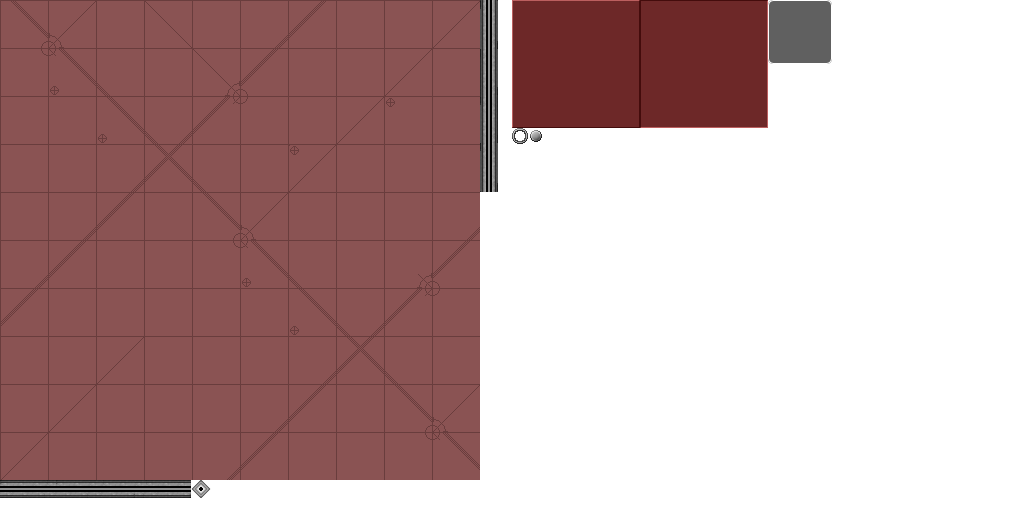
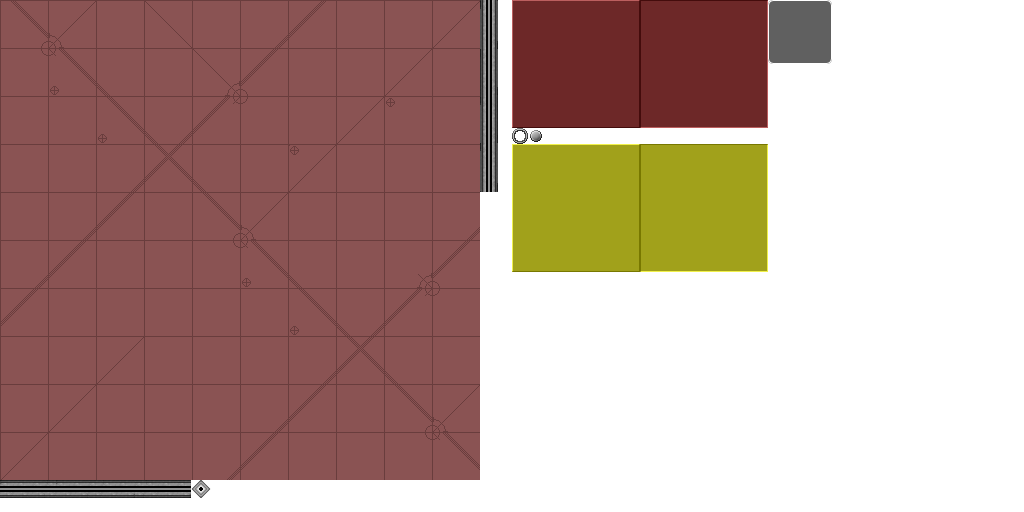
Add button highlighting/glow effect, to be used for the objective button when the objectives update

Changed region(s): [[0.5, 0.2812, 0.75, 0.5312]]

diff --git a/OpenRA.Game/Widgets/ButtonWidget.cs b/OpenRA.Game/Widgets/ButtonWidget.cs
@@ -23,8 +23,10 @@ namespace OpenRA.Widgets
 		public int VisualHeight = ChromeMetrics.Get<int>("ButtonDepth");
 		public string Font = ChromeMetrics.Get<string>("ButtonFont");
 		public bool Disabled = false;
+		public bool Highlighted = false;
 		public Func<string> GetText;
 		public Func<bool> IsDisabled;
+		public Func<bool> IsHighlighted;
 		public Action<MouseInput> OnMouseDown = _ => {};
 		public Action<MouseInput> OnMouseUp = _ => {};
 
@@ -39,6 +41,7 @@ namespace OpenRA.Widgets
 			OnMouseUp = _ => OnClick();
 			OnKeyPress = _ => OnClick();
 			IsDisabled = () => Disabled;
+			IsHighlighted = () => Highlighted;
 		}
 
 		protected ButtonWidget(ButtonWidget widget)
@@ -52,6 +55,8 @@ namespace OpenRA.Widgets
 			OnMouseDown = widget.OnMouseDown;
 			Disabled = widget.Disabled;
 			IsDisabled = widget.IsDisabled;
+			Highlighted = widget.Highlighted;
+			IsHighlighted = widget.IsHighlighted;
 
 			OnMouseUp = mi => OnClick();
 			OnKeyPress = _ => OnClick();
@@ -124,13 +129,14 @@ namespace OpenRA.Widgets
 		{
 			var rb = RenderBounds;
 			var disabled = IsDisabled();
+			var highlighted = IsHighlighted();
 
 			var font = Game.Renderer.Fonts[Font];
 			var text = GetText();
 			var s = font.Measure(text);
 			var stateOffset = (Depressed) ? new int2(VisualHeight, VisualHeight) : new int2(0, 0);
 
-			DrawBackground(rb, disabled, Depressed, Ui.MouseOverWidget == this);
+			DrawBackground(rb, disabled, Depressed, Ui.MouseOverWidget == this, highlighted);
 			font.DrawText(text, new int2(rb.X + (UsableWidth - s.X)/ 2, rb.Y + (Bounds.Height - s.Y) / 2) + stateOffset,
 						  disabled ? Color.Gray : Color.White);
 		}
@@ -138,17 +144,19 @@ namespace OpenRA.Widgets
 		public override Widget Clone() { return new ButtonWidget(this); }
 		public virtual int UsableWidth { get { return Bounds.Width; } }
 
-		public virtual void DrawBackground(Rectangle rect, bool disabled, bool pressed, bool hover)
+		public virtual void DrawBackground(Rectangle rect, bool disabled, bool pressed, bool hover, bool highlighted)
 		{
-			ButtonWidget.DrawBackground("button", rect, disabled, pressed, hover);
+			ButtonWidget.DrawBackground("button", rect, disabled, pressed, hover, highlighted);
 		}
 
-		public static void DrawBackground(string baseName, Rectangle rect, bool disabled, bool pressed, bool hover)
+		public static void DrawBackground(string baseName, Rectangle rect, bool disabled, bool pressed, bool hover, bool highlighted)
 		{
 			var state = disabled ? "-disabled" :
 						pressed ? "-pressed" :
 						hover ? "-hover" :
 						"";
+			if (highlighted)
+				state += "-highlighted";
 
 			WidgetUtils.DrawPanel(baseName + state, rect);
 		}

diff --git a/OpenRA.Mods.RA/Widgets/Logic/MissionObjectivesLogic.cs b/OpenRA.Mods.RA/Widgets/Logic/MissionObjectivesLogic.cs
@@ -11,7 +11,6 @@
 using System.Linq;
 using OpenRA.Mods.RA.Missions;
 using OpenRA.Network;
-using OpenRA.Traits;
 using OpenRA.Widgets;
 
 namespace OpenRA.Mods.RA.Widgets.Logic
@@ -23,18 +22,26 @@ namespace OpenRA.Mods.RA.Widgets.Logic
 		Widget secondaryPanel;
 		Widget primaryTemplate;
 		Widget secondaryTemplate;
+		ButtonWidget objectivesButton;
 
 		[ObjectCreator.UseCtor]
 		public MissionObjectivesLogic(World world, Widget widget)
 		{
+			var gameRoot = Ui.Root.Get("INGAME_ROOT");
 			primaryPanel = widget.Get("PRIMARY_OBJECTIVES");
 			secondaryPanel = widget.Get("SECONDARY_OBJECTIVES");
 			primaryTemplate = primaryPanel.Get("PRIMARY_OBJECTIVE_TEMPLATE");
 			secondaryTemplate = secondaryPanel.Get("SECONDARY_OBJECTIVE_TEMPLATE");
+
 			objectives = world.WorldActor.TraitsImplementing<IHasObjectives>().First();
-			Game.ConnectionStateChanged += RemoveHandlers;
+
+			objectivesButton = gameRoot.Get<ButtonWidget>("OBJECTIVES_BUTTON");
+			objectivesButton.IsHighlighted = () => Game.LocalTick % 60 <= 30 && objectivesButton.Highlighted;
+			objectivesButton.OnClick += () => objectivesButton.Highlighted = false;
+
 			objectives.ObjectivesUpdated += UpdateObjectives;
 			UpdateObjectives();
+			Game.ConnectionStateChanged += RemoveHandlers;
 		}
 
 		public void RemoveHandlers(OrderManager orderManager)
@@ -48,6 +55,7 @@ namespace OpenRA.Mods.RA.Widgets.Logic
 
 		public void UpdateObjectives()
 		{
+			objectivesButton.Highlighted = true;
 			primaryPanel.RemoveChildren();
 			secondaryPanel.RemoveChildren();
 			foreach (var o in objectives.Objectives.Where(o => o.Status != ObjectiveStatus.Inactive))

diff --git a/OpenRA.Mods.Cnc/Widgets/ProductionTabsWidget.cs b/OpenRA.Mods.Cnc/Widgets/ProductionTabsWidget.cs
@@ -138,8 +138,8 @@ namespace OpenRA.Mods.Cnc.Widgets
 			var rightHover = Ui.MouseOverWidget == this && rightButtonRect.Contains(Viewport.LastMousePos);
 
 			WidgetUtils.DrawPanel("panel-black", rb);
-			ButtonWidget.DrawBackground("button", leftButtonRect, leftDisabled, leftPressed, leftHover);
-			ButtonWidget.DrawBackground("button", rightButtonRect, rightDisabled, rightPressed, rightHover);
+			ButtonWidget.DrawBackground("button", leftButtonRect, leftDisabled, leftPressed, leftHover, false);
+			ButtonWidget.DrawBackground("button", rightButtonRect, rightDisabled, rightPressed, rightHover, false);
 
 			WidgetUtils.DrawRGBA(ChromeProvider.GetImage("scrollbar", leftPressed || leftDisabled ? "left_pressed" : "left_arrow"),
 				new float2(leftButtonRect.Left + 2, leftButtonRect.Top + 2));
@@ -157,7 +157,7 @@ namespace OpenRA.Mods.Cnc.Widgets
 				var rect = new Rectangle(origin.X + ContentWidth, origin.Y, TabWidth, rb.Height);
 				var hover = !leftHover && !rightHover && Ui.MouseOverWidget == this && rect.Contains(Viewport.LastMousePos);
 				var baseName = tab.Queue == CurrentQueue ? "button-toggled" : "button";
-				ButtonWidget.DrawBackground(baseName, rect, false, false, hover);
+				ButtonWidget.DrawBackground(baseName, rect, false, false, hover, false);
 				ContentWidth += TabWidth - 1;
 
 				int2 textSize = font.Measure(tab.Name);

diff --git a/OpenRA.Game/Widgets/ScrollPanelWidget.cs b/OpenRA.Game/Widgets/ScrollPanelWidget.cs
@@ -79,11 +79,11 @@ namespace OpenRA.Widgets
 			var thumbHover = Ui.MouseOverWidget == this && thumbRect.Contains(Viewport.LastMousePos);
 			WidgetUtils.DrawPanel(Background, backgroundRect);
 			WidgetUtils.DrawPanel("scrollpanel-bg", scrollbarRect);
-			ButtonWidget.DrawBackground("button", upButtonRect, upDisabled, UpPressed, upHover);
-			ButtonWidget.DrawBackground("button", downButtonRect, downDisabled, DownPressed, downHover);
+			ButtonWidget.DrawBackground("button", upButtonRect, upDisabled, UpPressed, upHover, false);
+			ButtonWidget.DrawBackground("button", downButtonRect, downDisabled, DownPressed, downHover, false);
 
 			if (thumbHeight > 0)
-				ButtonWidget.DrawBackground("scrollthumb", thumbRect, false, Focused && thumbHover, thumbHover);
+				ButtonWidget.DrawBackground("scrollthumb", thumbRect, false, Focused && thumbHover, thumbHover, false);
 
 			var upOffset = !UpPressed || upDisabled ? 4 : 4 + ButtonDepth;
 			var downOffset = !DownPressed || downDisabled ? 4 : 4 + ButtonDepth;

diff --git a/OpenRA.Mods.Cnc/Widgets/ToggleButtonWidget.cs b/OpenRA.Mods.Cnc/Widgets/ToggleButtonWidget.cs
@@ -53,10 +53,10 @@ namespace OpenRA.Mods.Cnc.Widgets
 			tooltipContainer.Value.RemoveTooltip();
 		}
 
-		public override void DrawBackground(Rectangle rect, bool disabled, bool pressed, bool hover)
+		public override void DrawBackground(Rectangle rect, bool disabled, bool pressed, bool hover, bool highlighted)
 		{
 			var baseName = IsToggled() ? "button-toggled" : "button";
-			ButtonWidget.DrawBackground(baseName, rect, disabled, pressed, hover);
+			ButtonWidget.DrawBackground(baseName, rect, disabled, pressed, hover, highlighted);
 		}
 	}
 }

diff --git a/OpenRA.Mods.RA/Widgets/Logic/IngameChromeLogic.cs b/OpenRA.Mods.RA/Widgets/Logic/IngameChromeLogic.cs
@@ -45,10 +45,7 @@ namespace OpenRA.Mods.RA.Widgets.Logic
 				var objectivesButton = gameRoot.Get<ButtonWidget>("OBJECTIVES_BUTTON");
 				var objectivesWidget = Game.LoadWidget(world, iop.ObjectivesPanel, Ui.Root, new WidgetArgs());
 				objectivesWidget.Visible = false;
-				objectivesButton.OnClick = () =>
-				{
-					objectivesWidget.Visible = !objectivesWidget.Visible;
-				};
+				objectivesButton.OnClick += () => objectivesWidget.Visible = !objectivesWidget.Visible;
 				objectivesButton.IsVisible = () => world.LocalPlayer != null;
 			}
 

diff --git a/OpenRA.Game/Widgets/SliderWidget.cs b/OpenRA.Game/Widgets/SliderWidget.cs
@@ -118,7 +118,7 @@ namespace OpenRA.Widgets
 
 			// Thumb
 			var thumbHover = Ui.MouseOverWidget == this && tr.Contains(Viewport.LastMousePos);
-			ButtonWidget.DrawBackground("scrollthumb", tr, IsDisabled(), isMoving, thumbHover);
+			ButtonWidget.DrawBackground("scrollthumb", tr, IsDisabled(), isMoving, thumbHover, false);
 		}
 	}
 }
